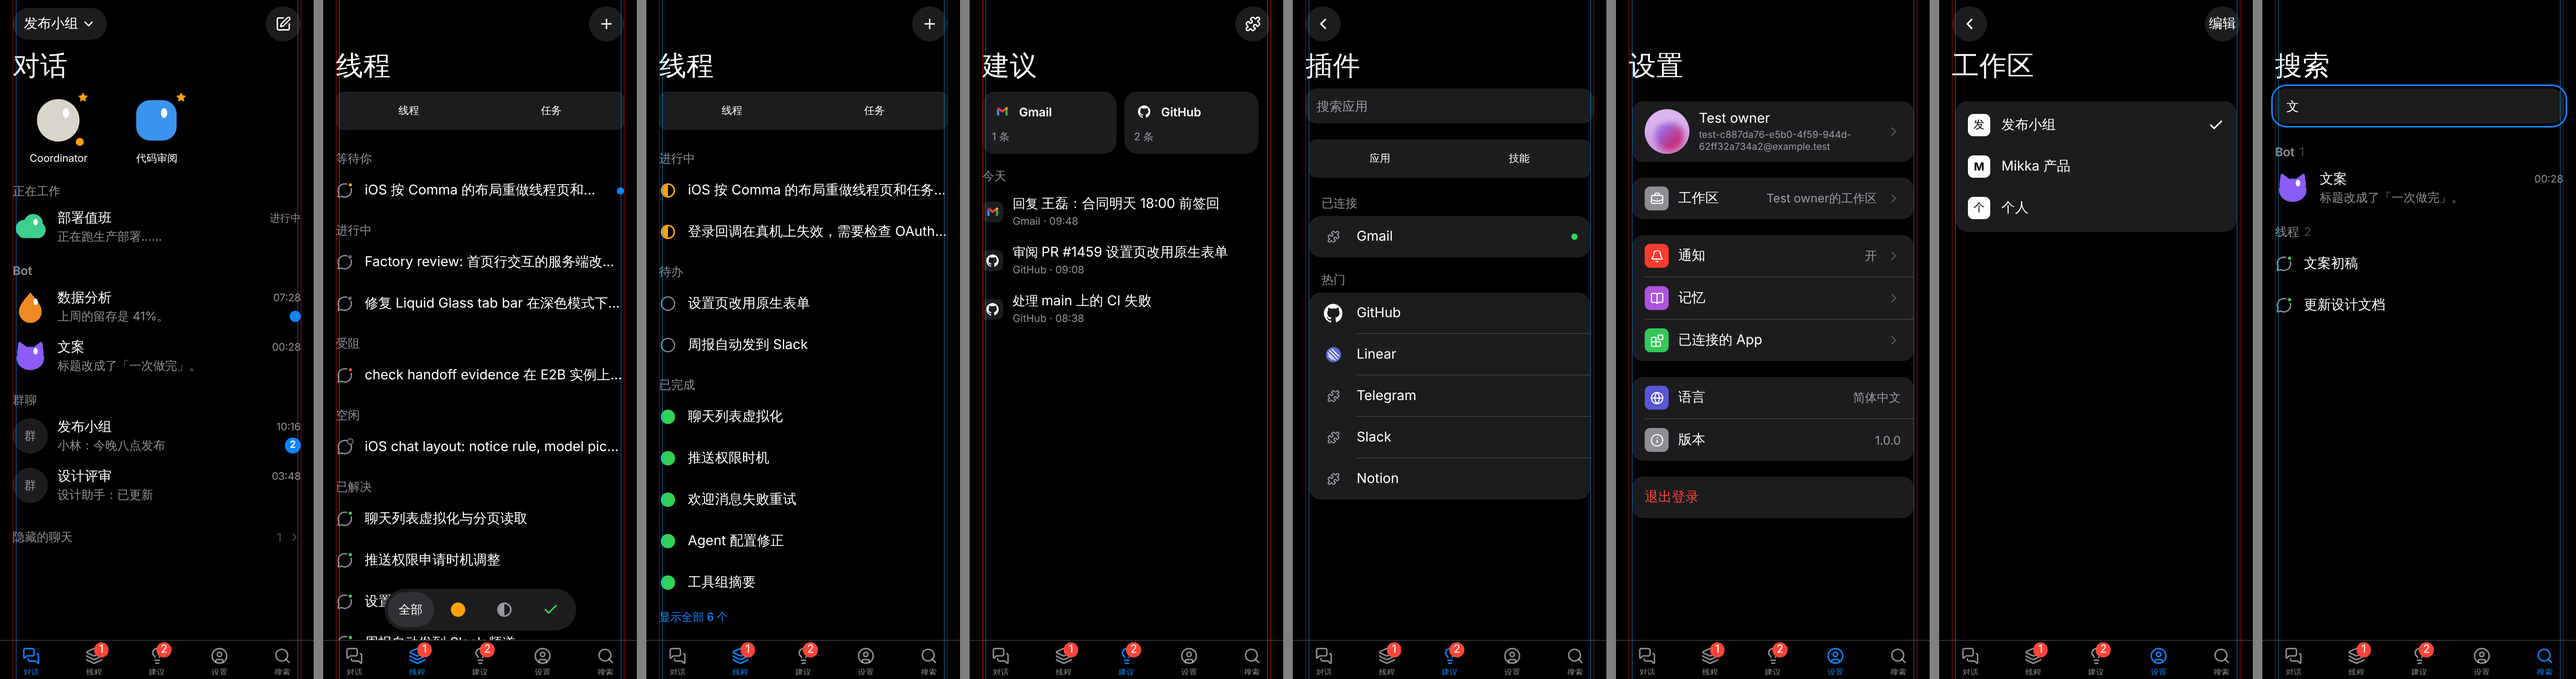
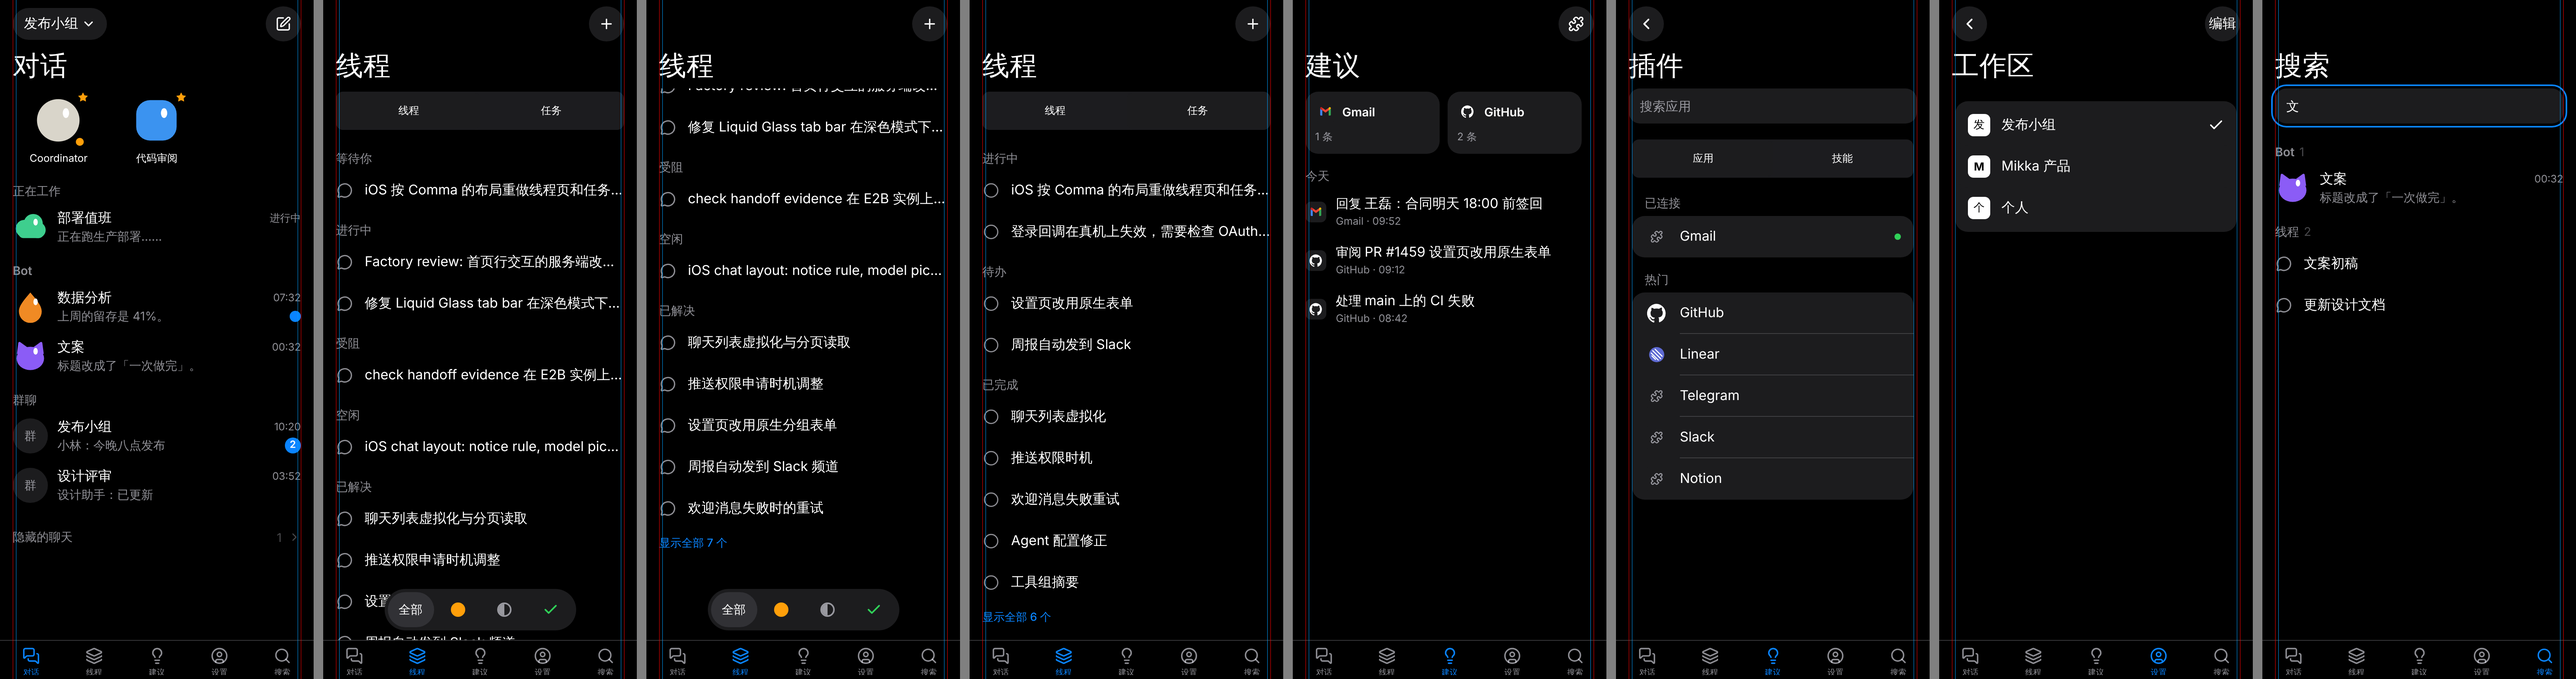
Mobile: no badges on the tabs or status dots on thread and task rows (#1408)
The tab bar carries no count badges; a thread row's icon is a plain bubble
and a task row's a plain circle, since the section names the state. The
settings pages keep their previous margins; the design session redoes them.

Claude-Session: https://claude.ai/code/session_01XDndLPgmtUBPajCU43rJKp

diff --git a/apps/mobile/features/tasks/components/task-list.tsx b/apps/mobile/features/tasks/components/task-list.tsx
@@ -1,7 +1,7 @@
 import { useState, type ReactElement } from 'react'
 import { FlatList, Pressable, RefreshControl, StyleSheet, View } from 'react-native'
 import { useSafeAreaInsets } from 'react-native-safe-area-context'
-import { Circle, CircleDashed, CircleX } from 'lucide-react-native'
+import { Circle } from 'lucide-react-native'
 import { Spinner } from '@/components/icons'
 import { ReadNotice } from '@/components/ReadNotice'
 import { Text } from '@/components/Text'
@@ -25,19 +25,15 @@ const SECTIONS: { status: string[]; title: string; closed?: boolean }[] = [
   { status: ['canceled', 'duplicate'], title: '已取消', closed: true },
 ]
 
-/** A task's status mark (Comma design 15): an orange half circle in progress, a filled green circle done. */
-function TaskIcon({ status }: { status: string }) {
-  if (status === 'done') return <View style={[styles.mark, { backgroundColor: colors.success }]} accessibilityLabel="已完成" />
-  if (status === 'doing') return <View style={[styles.mark, styles.half]} accessibilityLabel="进行中"><View style={styles.halfFill} /></View>
-  if (status === 'review') return <CircleDashed size={20} color={colors.success} strokeWidth={2} accessibilityLabel="评审中" />
-  if (status === 'canceled' || status === 'duplicate') return <CircleX size={20} color={colors.tertiary} strokeWidth={2} accessibilityLabel="已取消" />
-  return <Circle size={20} color={colors.secondary} strokeWidth={1.8} accessibilityLabel="待办" />
+/** A task's mark: a plain circle (R-52, a circle is a task). Its section names its state, so it adds no colour (Alex 2026-11-06). */
+function TaskIcon() {
+  return <Circle size={20} color={colors.secondary} strokeWidth={1.8} />
 }
 
 export type TaskRow = { key: string; task: Task } | { key: string; title: string } | { key: string; more: number; section: string }
 
 /**
- * The person's tasks as list rows by status (Comma design 15): a section name, then each task as its status mark and
+ * The person's tasks as list rows by status (Comma design 15): a section name, then each task as a plain circle and
  * its title on one line (Alex 2026-11-06). 已完成 and 已取消 show their first rows until 显示全部. The 线程 tab draws
  * these rows in its own list, so its large title and segment stay on one scroll view.
  */
@@ -66,7 +62,7 @@ function TaskRowView({ task }: { task: Task }) {
   return (
     <Pressable accessibilityRole="link" accessibilityLabel={task.title} onPress={() => void openOnWeb(`/?issue=${task.id}`)}
       style={({ pressed }) => [styles.row, pressed && { backgroundColor: colors.pressed }]}>
-      <View style={styles.icon}><TaskIcon status={task.status} /></View>
+      <View style={styles.icon}><TaskIcon /></View>
       <Text style={styles.title} numberOfLines={1}>{displayTitle(task.title)}</Text>
     </Pressable>
   )
@@ -101,9 +97,6 @@ const styles = StyleSheet.create({
   /** One line per row (Alex 2026-11-06): 52 pt tall, text 16 pt in from each edge (lib/theme.ts LIST_INSET). */
   row: { flexDirection: 'row', alignItems: 'center', gap: 14, minHeight: 52, marginHorizontal: ROW_SURFACE_INSET, paddingHorizontal: LIST_INSET - ROW_SURFACE_INSET, borderRadius: 10 },
   icon: { width: 22, alignItems: 'center' },
-  mark: { width: 18, height: 18, borderRadius: 9 },
-  half: { borderWidth: 2, borderColor: colors.orange, overflow: 'hidden', flexDirection: 'row' },
-  halfFill: { width: '50%', backgroundColor: colors.orange },
   title: { flex: 1, minWidth: 0, fontSize: 17, lineHeight: 22 },
   center: listStyles.center,
   empty: listStyles.empty,

diff --git a/apps/mobile/app/(tabs)/_layout.tsx b/apps/mobile/app/(tabs)/_layout.tsx
@@ -2,20 +2,15 @@ import { Platform } from 'react-native'
 import { Tabs } from 'expo-router/js-tabs'
 import { NativeTabs } from 'expo-router/native-tabs'
 import { Lightbulb, Layers, MessagesSquare, Search, UserCircle } from 'lucide-react-native'
-import { useHome } from '@/lib/home'
 import { colors } from '@/lib/theme'
 
 /**
  * The app's places, as the system's tab bar with Liquid Glass (docs/design/mobile-comma-redesign.md, Alex
  * 2026-11-06): 对话, 线程 (with 任务), 建议 and 设置, then the system search tab. A chat or a thread opens over the
- * tabs, so the tab bar goes away there. A count is the system badge: threads waiting on the person and today's
- * suggestions, both from the home read the app already makes.
+ * tabs, so the tab bar goes away there. The tabs carry no badges (Alex 2026-11-06).
  */
 export default function TabsLayout() {
-  const home = useHome().data
-  const waiting = home?.threads.waiting ?? 0
-  const suggestions = home?.suggestions ?? 0
-  if (Platform.OS === 'web') return <WebTabs waiting={waiting} suggestions={suggestions} />
+  if (Platform.OS === 'web') return <WebTabs />
   return (
     <NativeTabs>
       <NativeTabs.Trigger name="(chats)">
@@ -25,12 +20,10 @@ export default function TabsLayout() {
       <NativeTabs.Trigger name="threads">
         <NativeTabs.Trigger.Icon sf={{ default: 'rectangle.stack', selected: 'rectangle.stack.fill' }} />
         <NativeTabs.Trigger.Label>线程</NativeTabs.Trigger.Label>
-        {waiting ? <NativeTabs.Trigger.Badge>{String(waiting)}</NativeTabs.Trigger.Badge> : null}
       </NativeTabs.Trigger>
       <NativeTabs.Trigger name="suggestions">
         <NativeTabs.Trigger.Icon sf={{ default: 'lightbulb', selected: 'lightbulb.fill' }} />
         <NativeTabs.Trigger.Label>建议</NativeTabs.Trigger.Label>
-        {suggestions ? <NativeTabs.Trigger.Badge>{String(suggestions)}</NativeTabs.Trigger.Badge> : null}
       </NativeTabs.Trigger>
       <NativeTabs.Trigger name="settings">
         <NativeTabs.Trigger.Icon sf={{ default: 'person.crop.circle', selected: 'person.crop.circle.fill' }} />
@@ -44,14 +37,14 @@ export default function TabsLayout() {
 }
 
 /** The web build, used for screenshot checks: the same five tabs as a bar at the foot (NativeTabs draws a top bar there). */
-function WebTabs({ waiting, suggestions }: { waiting: number; suggestions: number }) {
+function WebTabs() {
   const icon = (Icon: typeof Search) => ({ color }: { color: unknown }) => <Icon size={22} color={String(color)} strokeWidth={2} />
   return (
     <Tabs screenOptions={{ headerShown: false, tabBarActiveTintColor: colors.accent, tabBarInactiveTintColor: colors.secondary,
       tabBarStyle: { backgroundColor: colors.page, borderTopColor: colors.separator } }}>
       <Tabs.Screen name="(chats)" options={{ title: '对话', tabBarIcon: icon(MessagesSquare) }} />
-      <Tabs.Screen name="threads" options={{ title: '线程', tabBarIcon: icon(Layers), tabBarBadge: waiting || undefined }} />
-      <Tabs.Screen name="suggestions" options={{ title: '建议', tabBarIcon: icon(Lightbulb), tabBarBadge: suggestions || undefined }} />
+      <Tabs.Screen name="threads" options={{ title: '线程', tabBarIcon: icon(Layers) }} />
+      <Tabs.Screen name="suggestions" options={{ title: '建议', tabBarIcon: icon(Lightbulb) }} />
       <Tabs.Screen name="settings" options={{ title: '设置', tabBarIcon: icon(UserCircle) }} />
       <Tabs.Screen name="search" options={{ title: '搜索', tabBarIcon: icon(Search) }} />
     </Tabs>

diff --git a/apps/mobile/components/ThreadsScreen.tsx b/apps/mobile/components/ThreadsScreen.tsx
@@ -8,7 +8,6 @@ import { Spinner, StatusIcon } from '@/components/icons'
 import { GROUP_ICON } from '@/lib/thread-icon'
 import { Text } from '@/components/Text'
 import { NavBar, underBar } from '@/components/NavBar'
-import { Dot } from '@/components/ui'
 import type { BotPage, Thread, ThreadGroup, Threads } from '@/lib/types'
 import { openChat } from '@/lib/navigate'
 import { useLiveApi, useRefresh } from '@/lib/useApi'
@@ -122,19 +121,18 @@ export function ThreadsScreen({ bot }: { bot?: { id: string; name: string } }) {
 type Row = { key: string; thread: Thread } | { key: string; title: string } | { key: string; more: number }
 
 /**
- * A thread on one line (Alex 2026-11-06): the icon of its group and its title, without the issue key or date stamp the
- * title may carry (display-title.ts); a blue dot while it waits on the person. Long press keeps 停止 / 复制 ID.
+ * A thread on one line (Alex 2026-11-06): a plain bubble and its title, without the issue key or date stamp the title
+ * may carry (display-title.ts). The section it sits in names its state, so the row adds no dot. Long press keeps
+ * 停止 / 复制 ID.
  */
 export function ThreadRow({ thread, onStopped }: { thread: Thread; onStopped?: () => void }) {
-  const waiting = thread.status === 'waiting'
   return (
     // The side margin sits on a plain View: on iOS the row's press is inside a Link, which may not pass a style on.
     <View style={styles.row}>
       <ThreadLink thread={thread} onStopped={onStopped} style={({ pressed }) => [styles.rowPress, pressed && { backgroundColor: colors.pressed }]}>
         <View style={styles.rowInner}>
-          <View style={styles.rowIcon}><StatusIcon status={thread.group ? GROUP_ICON[thread.group] : thread.status} size={20} /></View>
+          <View style={styles.rowIcon}><StatusIcon status={thread.group ? GROUP_ICON[thread.group] : thread.status} size={20} plain /></View>
           <Text style={styles.rowTitle} numberOfLines={1}>{displayTitle(thread.name)}</Text>
-          {waiting ? <Dot /> : null}
         </View>
       </ThreadLink>
     </View>

diff --git a/apps/mobile/components/icons.tsx b/apps/mobile/components/icons.tsx
@@ -41,8 +41,9 @@ export function Spinner({ size = 18, color = colors.secondary }: { size?: number
  * A thread's status icon: a speech bubble with its state as a dot on the corner (R-52). A circle is always a task, so a
  * thread borrows none: 进行中 a pulsing grey dot, 等待你 orange, 受阻 red, 已解决 green, 空闲 a hollow ring. The icon's
  * label names the state, so the colour is never the only sign (R-87). A thread is never drawn with its bot's avatar.
+ * `plain` drops the dot where a list's section already names the state (the 线程 list, Alex 2026-11-06).
  */
-export function StatusIcon({ status, size = 18 }: { status: ThreadStatus; size?: number }) {
+export function StatusIcon({ status, size = 18, plain = false }: { status: ThreadStatus; size?: number; plain?: boolean }) {
   const { dot, label } = threadDot(status)
   const pulse = useRef(new Animated.Value(1)).current
   const reduceMotion = useReducedMotionPreference()
@@ -61,11 +62,11 @@ export function StatusIcon({ status, size = 18 }: { status: ThreadStatus; size?:
   return (
     <View accessible accessibilityRole="image" accessibilityLabel={label} style={{ width: size, height: size }}>
       <MessageCircle size={size} color={colors.secondary} strokeWidth={2} />
-      <Animated.View testID={`thread-dot-${dot}`} style={{
+      {plain ? null : <Animated.View testID={`thread-dot-${dot}`} style={{
         position: 'absolute', top: -1, right: -1, width: spot, height: spot, borderRadius: spot / 2, backgroundColor: fill,
         borderWidth: dot === 'idle' ? 1.5 : 2, borderColor: dot === 'idle' ? colors.secondary : colors.page,
         opacity: dot === 'running' ? pulse : 1,
-      }} />
+      }} />}
     </View>
   )
 }

diff --git a/apps/mobile/components/settings.tsx b/apps/mobile/components/settings.tsx
@@ -11,7 +11,7 @@ import { Symbol } from '@/components/Symbol'
 import { Text } from '@/components/Text'
 import { API_URL } from '@/lib/config'
 import { NavBar, underBar } from '@/components/NavBar'
-import { colors, GROUP_INSET } from '@/lib/theme'
+import { colors } from '@/lib/theme'
 
 /** The person's photo, or their initials on green when they have none. */
 export function Avatar({ name, image, size }: { name: string; image: string | null; size: number }) {
@@ -39,7 +39,7 @@ export function SettingsPage({ title, children, footer }: { title: string; child
   return (
     <View style={{ flex: 1, backgroundColor: colors.grouped }}>
       <NavBar back={() => router.canGoBack() ? router.back() : router.replace('/settings')} title={title} />
-      <ScrollView {...underBar} keyboardShouldPersistTaps="handled" contentContainerStyle={{ paddingHorizontal: GROUP_INSET, paddingTop: 16, paddingBottom: footer ? 16 : insets.bottom + 24 }}>
+      <ScrollView {...underBar} keyboardShouldPersistTaps="handled" contentContainerStyle={{ padding: 16, paddingBottom: footer ? 16 : insets.bottom + 24 }}>
         <ReadNotice error={error} hasData={Boolean(data)} label="设置" onRetry={reload} />
         {!data && loading ? <View style={{ padding: 24, alignItems: 'center' }}><Spinner /></View> : null}
         {data ? children : null}

diff --git a/apps/mobile/app/(tabs)/settings/index.tsx b/apps/mobile/app/(tabs)/settings/index.tsx
@@ -17,7 +17,7 @@ import { authClient } from '@/lib/auth'
 import { clearApiCache } from '@/lib/useApi'
 import { useSettings } from '@/lib/settings'
 import { versionLabel } from '@/lib/updates'
-import { colors, GROUP_INSET } from '@/lib/theme'
+import { colors } from '@/lib/theme'
 
 /** A row's icon (Comma design 18): a white glyph on a colored rounded square, as in the system Settings app. */
 const icon = (name: SymbolName, Icon: typeof Bell, background: string) => (
@@ -63,7 +63,7 @@ export default function SettingsScreen() {
           <CardButton label="重试" onPress={() => void reload()} />
         </View>
       ) : !data ? <View style={{ paddingTop: 40, alignItems: 'center' }}><Spinner /></View> : (
-        <ScrollView {...underBar} contentContainerStyle={{ paddingHorizontal: GROUP_INSET, paddingTop: 16, paddingBottom: insets.bottom + 24 }}>
+        <ScrollView {...underBar} contentContainerStyle={{ padding: 16, paddingBottom: insets.bottom + 24 }}>
           <ReadNotice error={error} hasData label="设置" onRetry={reload} />
           <PushRow proactive={data.preferences.proactive} />
           <PreferenceSaveNotice />

diff --git a/docs/design/mobile.md b/docs/design/mobile.md
@@ -60,7 +60,10 @@ workspaces with a check on the open one; a tap switches and goes back. 编辑 sh
 handles that arrange them on this device.
 
 **Side margins** (Alex 2026-11-06, HIG layout margins; `lib/theme.ts`): a plain list's content starts 16 pt in from
-each edge (对话, 线程, 任务, 建议, 搜索), an inset grouped list's cards 20 pt (插件, 设置, 工作区, the 新建 sheets).
+each edge (对话, 线程, 任务, 建议, 搜索), an inset grouped list's cards 20 pt (插件, 工作区, the 新建 sheets).
+
+**No badges** (Alex 2026-11-06): the tab bar carries no count badges, and thread and task rows no coloured status
+dots; the list's sections name the state. The unread mark on a chat's avatar stays.
 
 **线程** (designs 13, 15) has a 线程 | 任务 segment under its large title, then one list. Each row is one line: the
 status icon and the title, at 17 pt, cut with an ellipsis; a title's leading issue key (ALEX-12, #1408) and trailing
